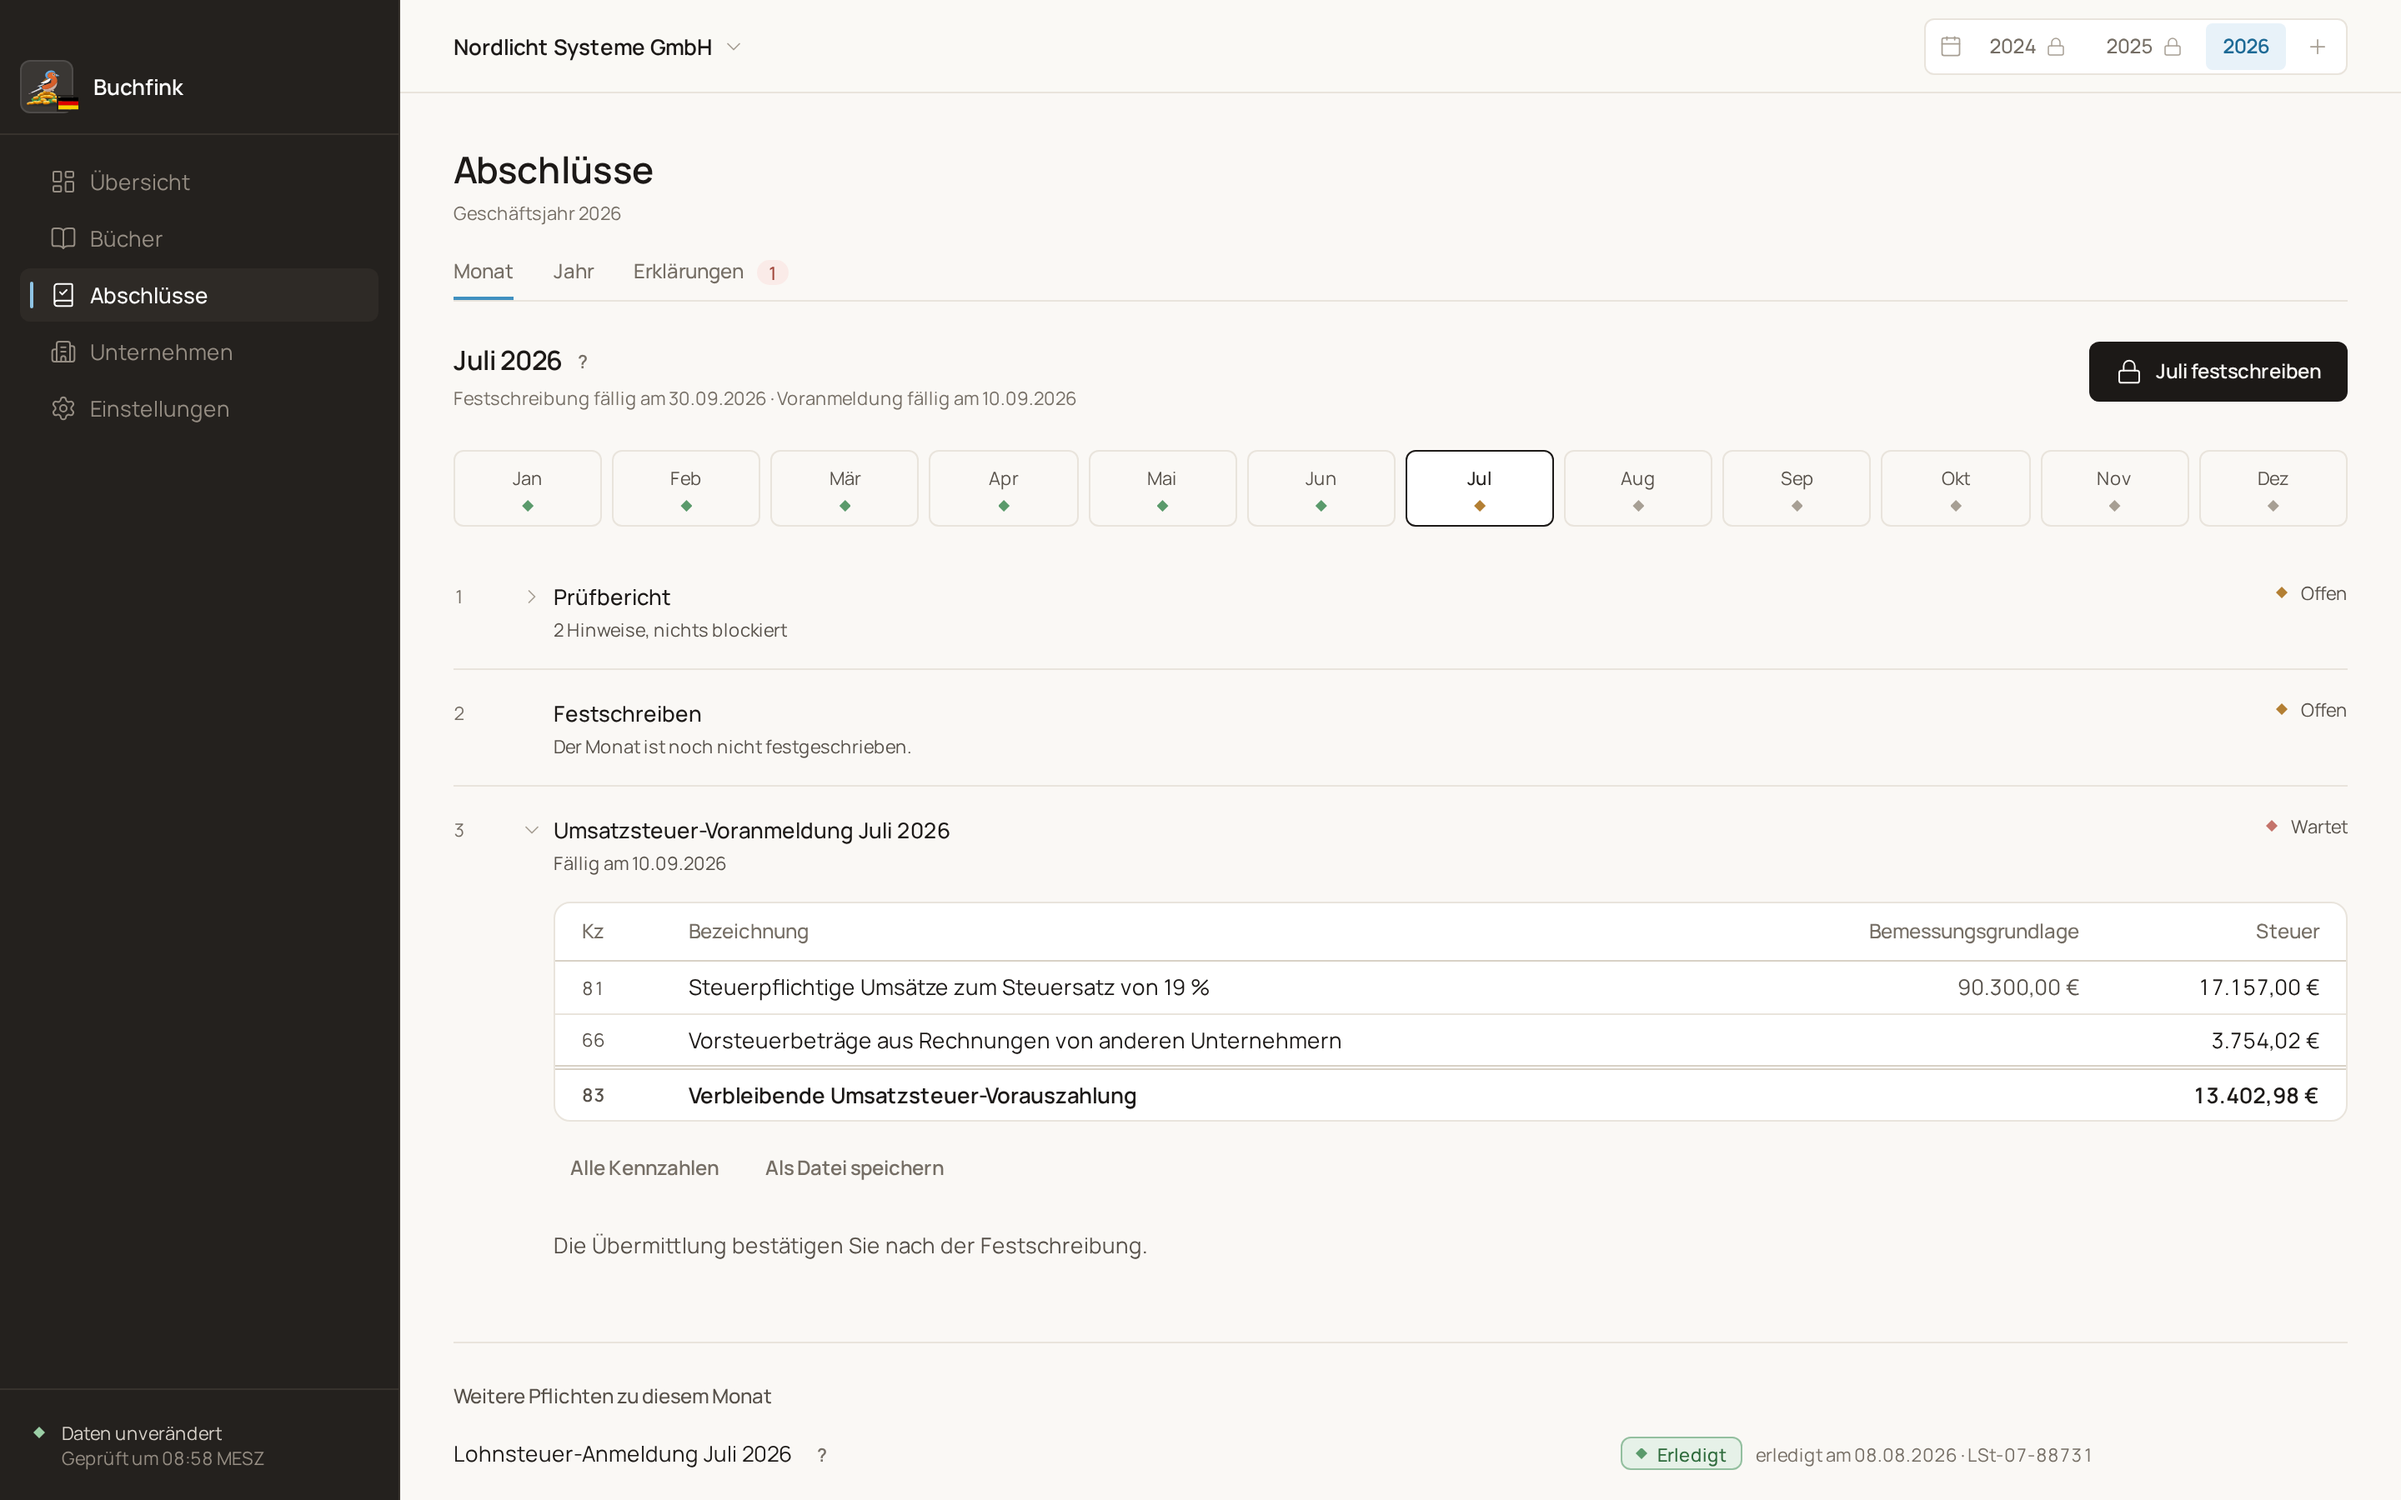
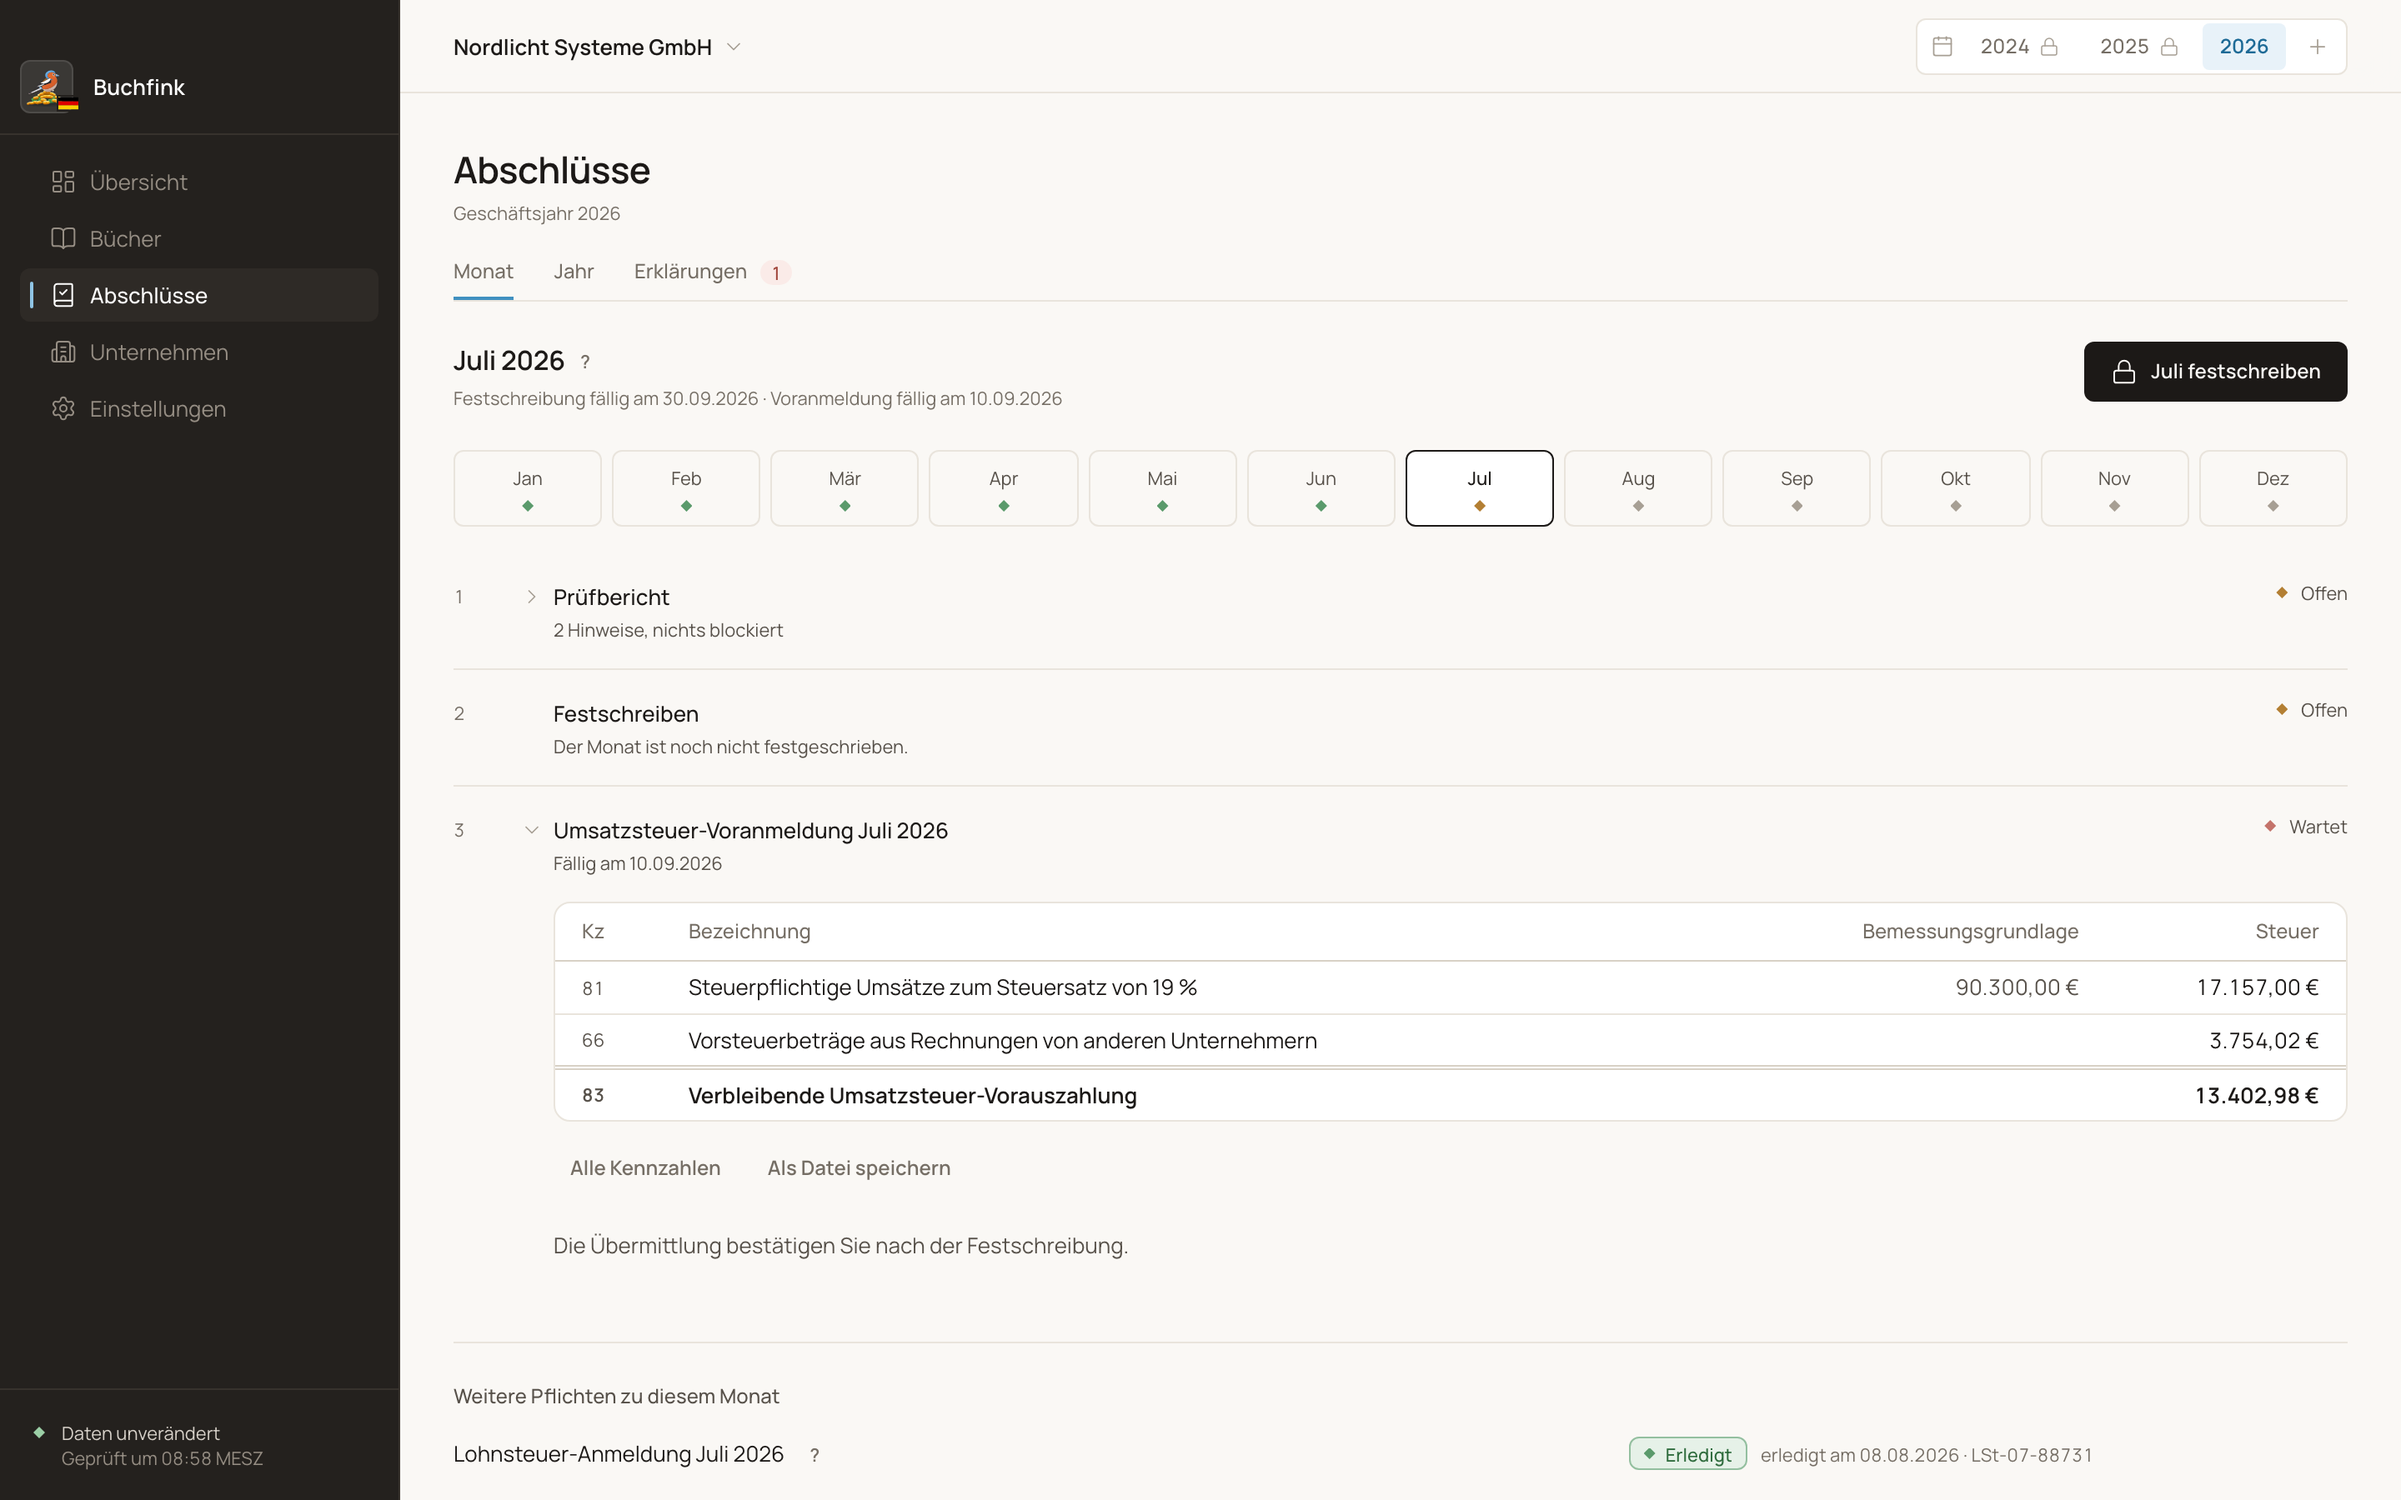
chore(website): Screenshots aus dem aktuellen Stand, Linux-Voraussetzungen
Das Aufnahmeskript lief nicht mehr durch: den Beispieldaten fehlte
needsBooking, und der Festschreibungsdialog zeigt „Geprüft bis …“ statt
einzelner Zahlen. Alle Bilder sind neu aufgenommen. Die Linux-App baut
scripts/release.sh in golang:1.25-bookworm, also Debian 12 mit glibc 2.36,
nicht Ubuntu 24.04.

diff --git a/installation.html b/installation.html
@@ -233,8 +233,9 @@
                 <div class="step">
                   <h3 class="step__title">Bibliotheken prüfen</h3>
                   <p class="step__body">
-                    Buchfink ist unter Ubuntu 24.04 für x86-64 gebaut und braucht GTK 3,
-                    WebKitGTK 4.1 und glibc ab Version 2.34. Unter Debian und Ubuntu installiert
+                    Buchfink ist unter Debian 12 für x86-64 gebaut und braucht GTK 3,
+                    WebKitGTK 4.1 und glibc ab Version 2.36, etwa Debian 12 oder Ubuntu 24.04.
+                    Unter Debian und Ubuntu installiert
                     <code>sudo apt install libwebkit2gtk-4.1-0</code> WebKitGTK samt GTK 3, unter
                     Fedora <code>sudo dnf install webkit2gtk4.1</code>.
                   </p>
